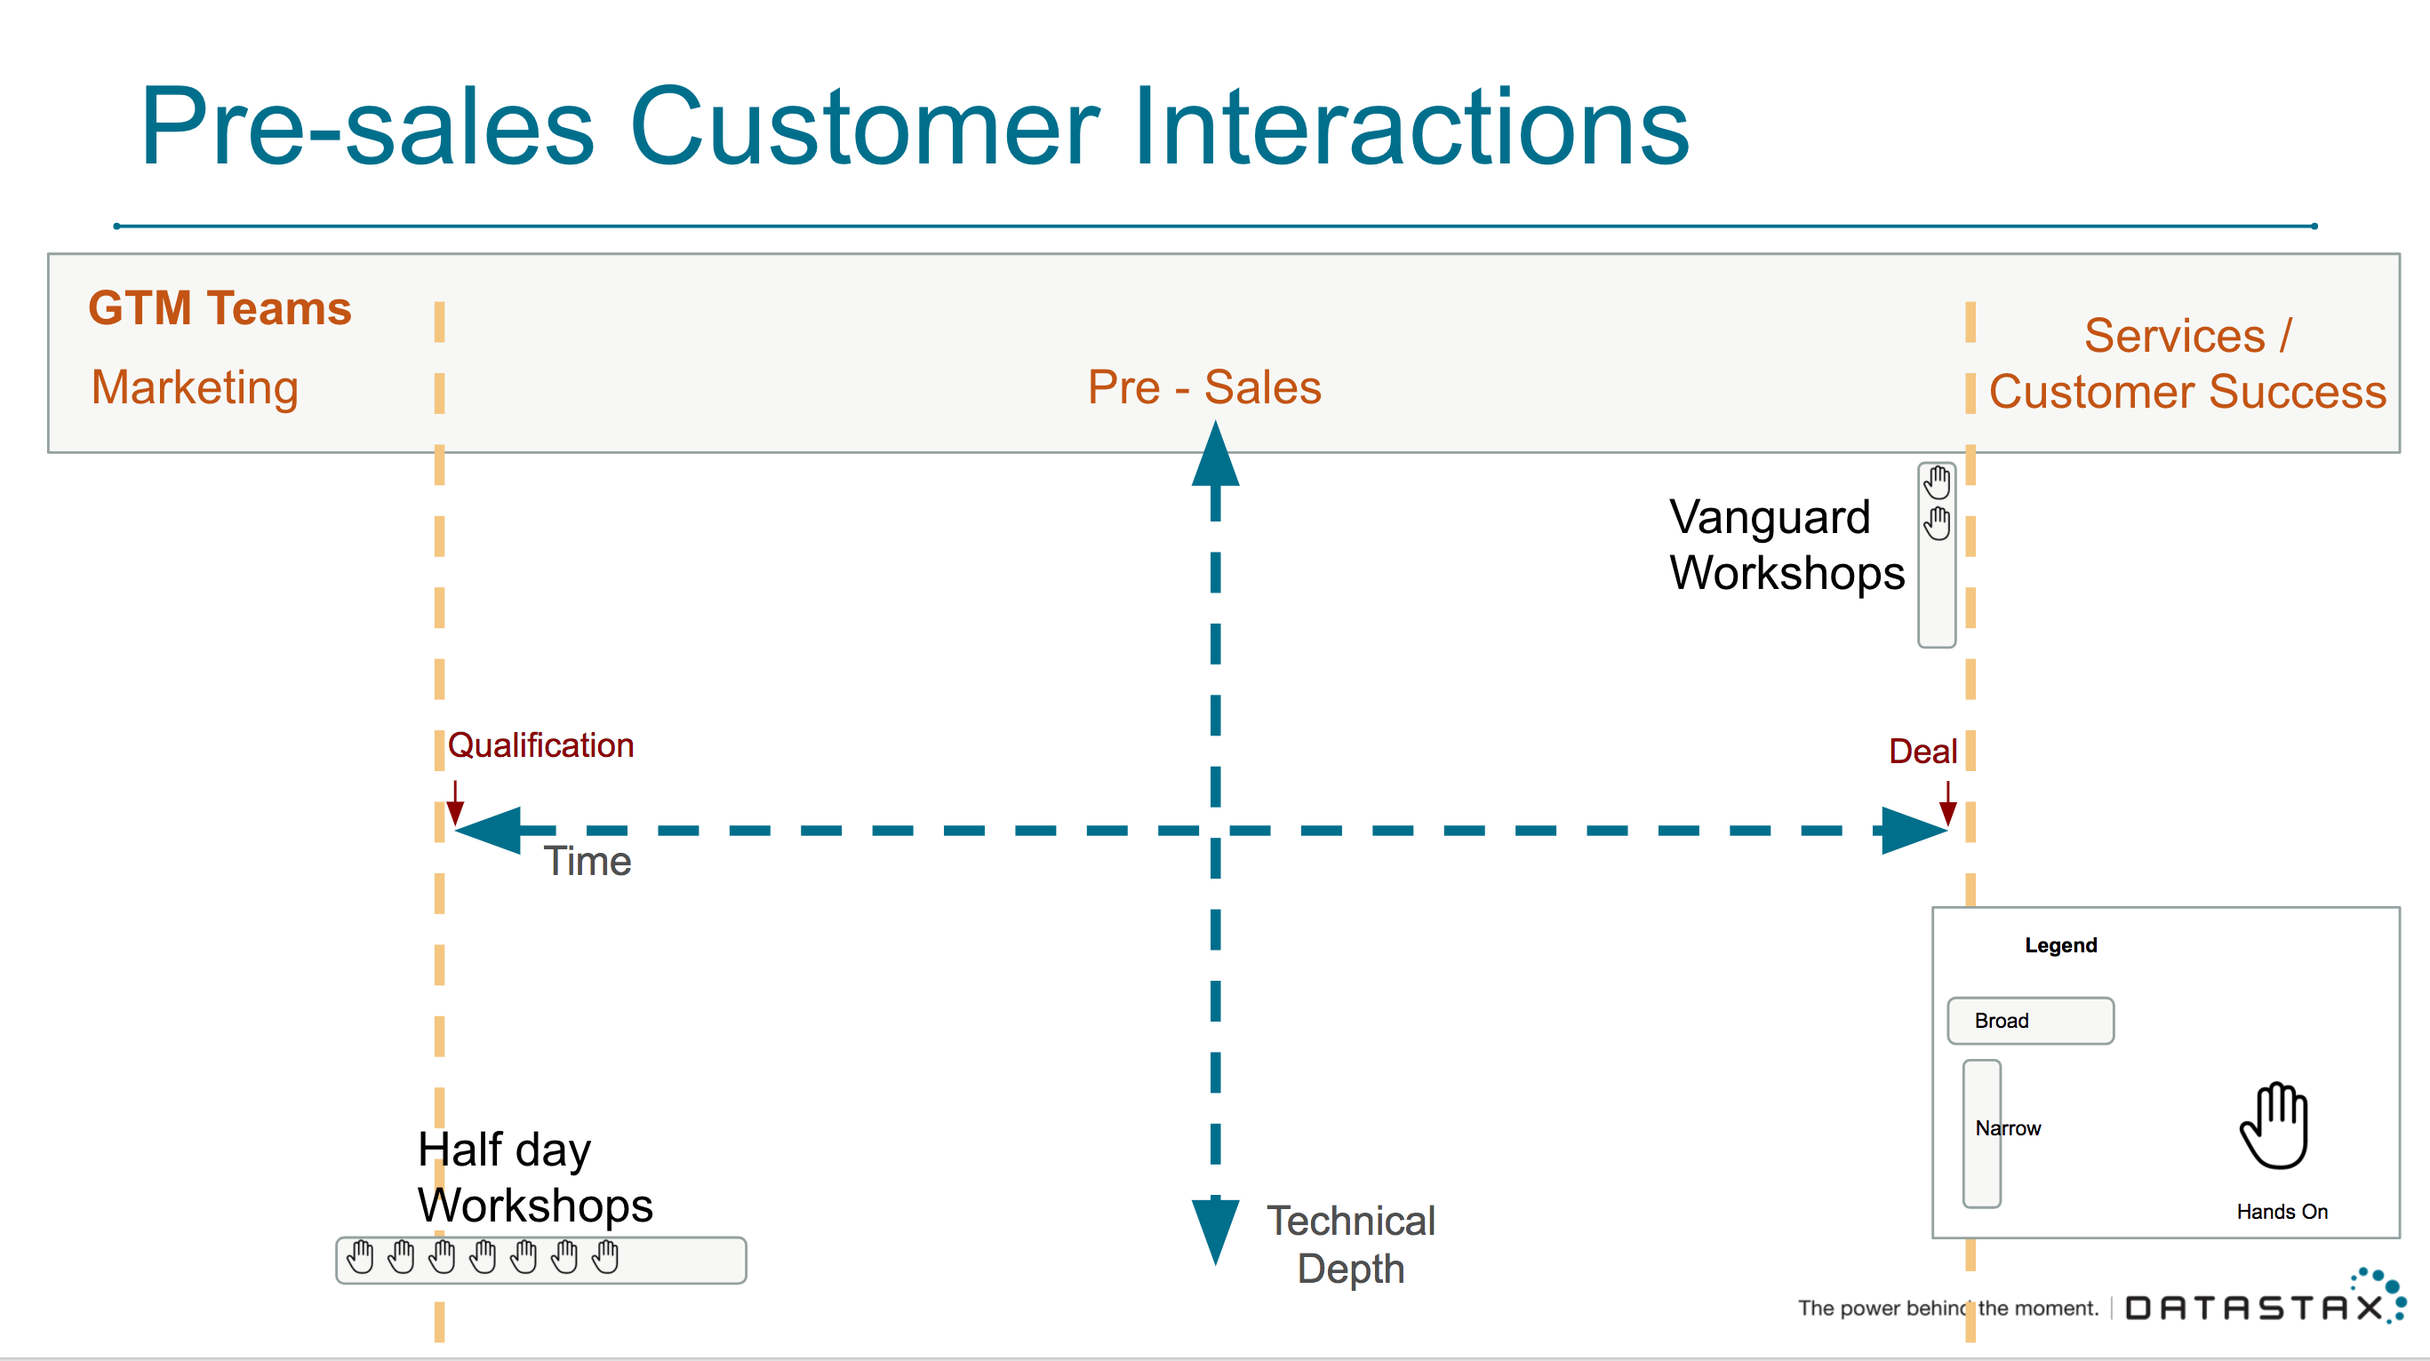
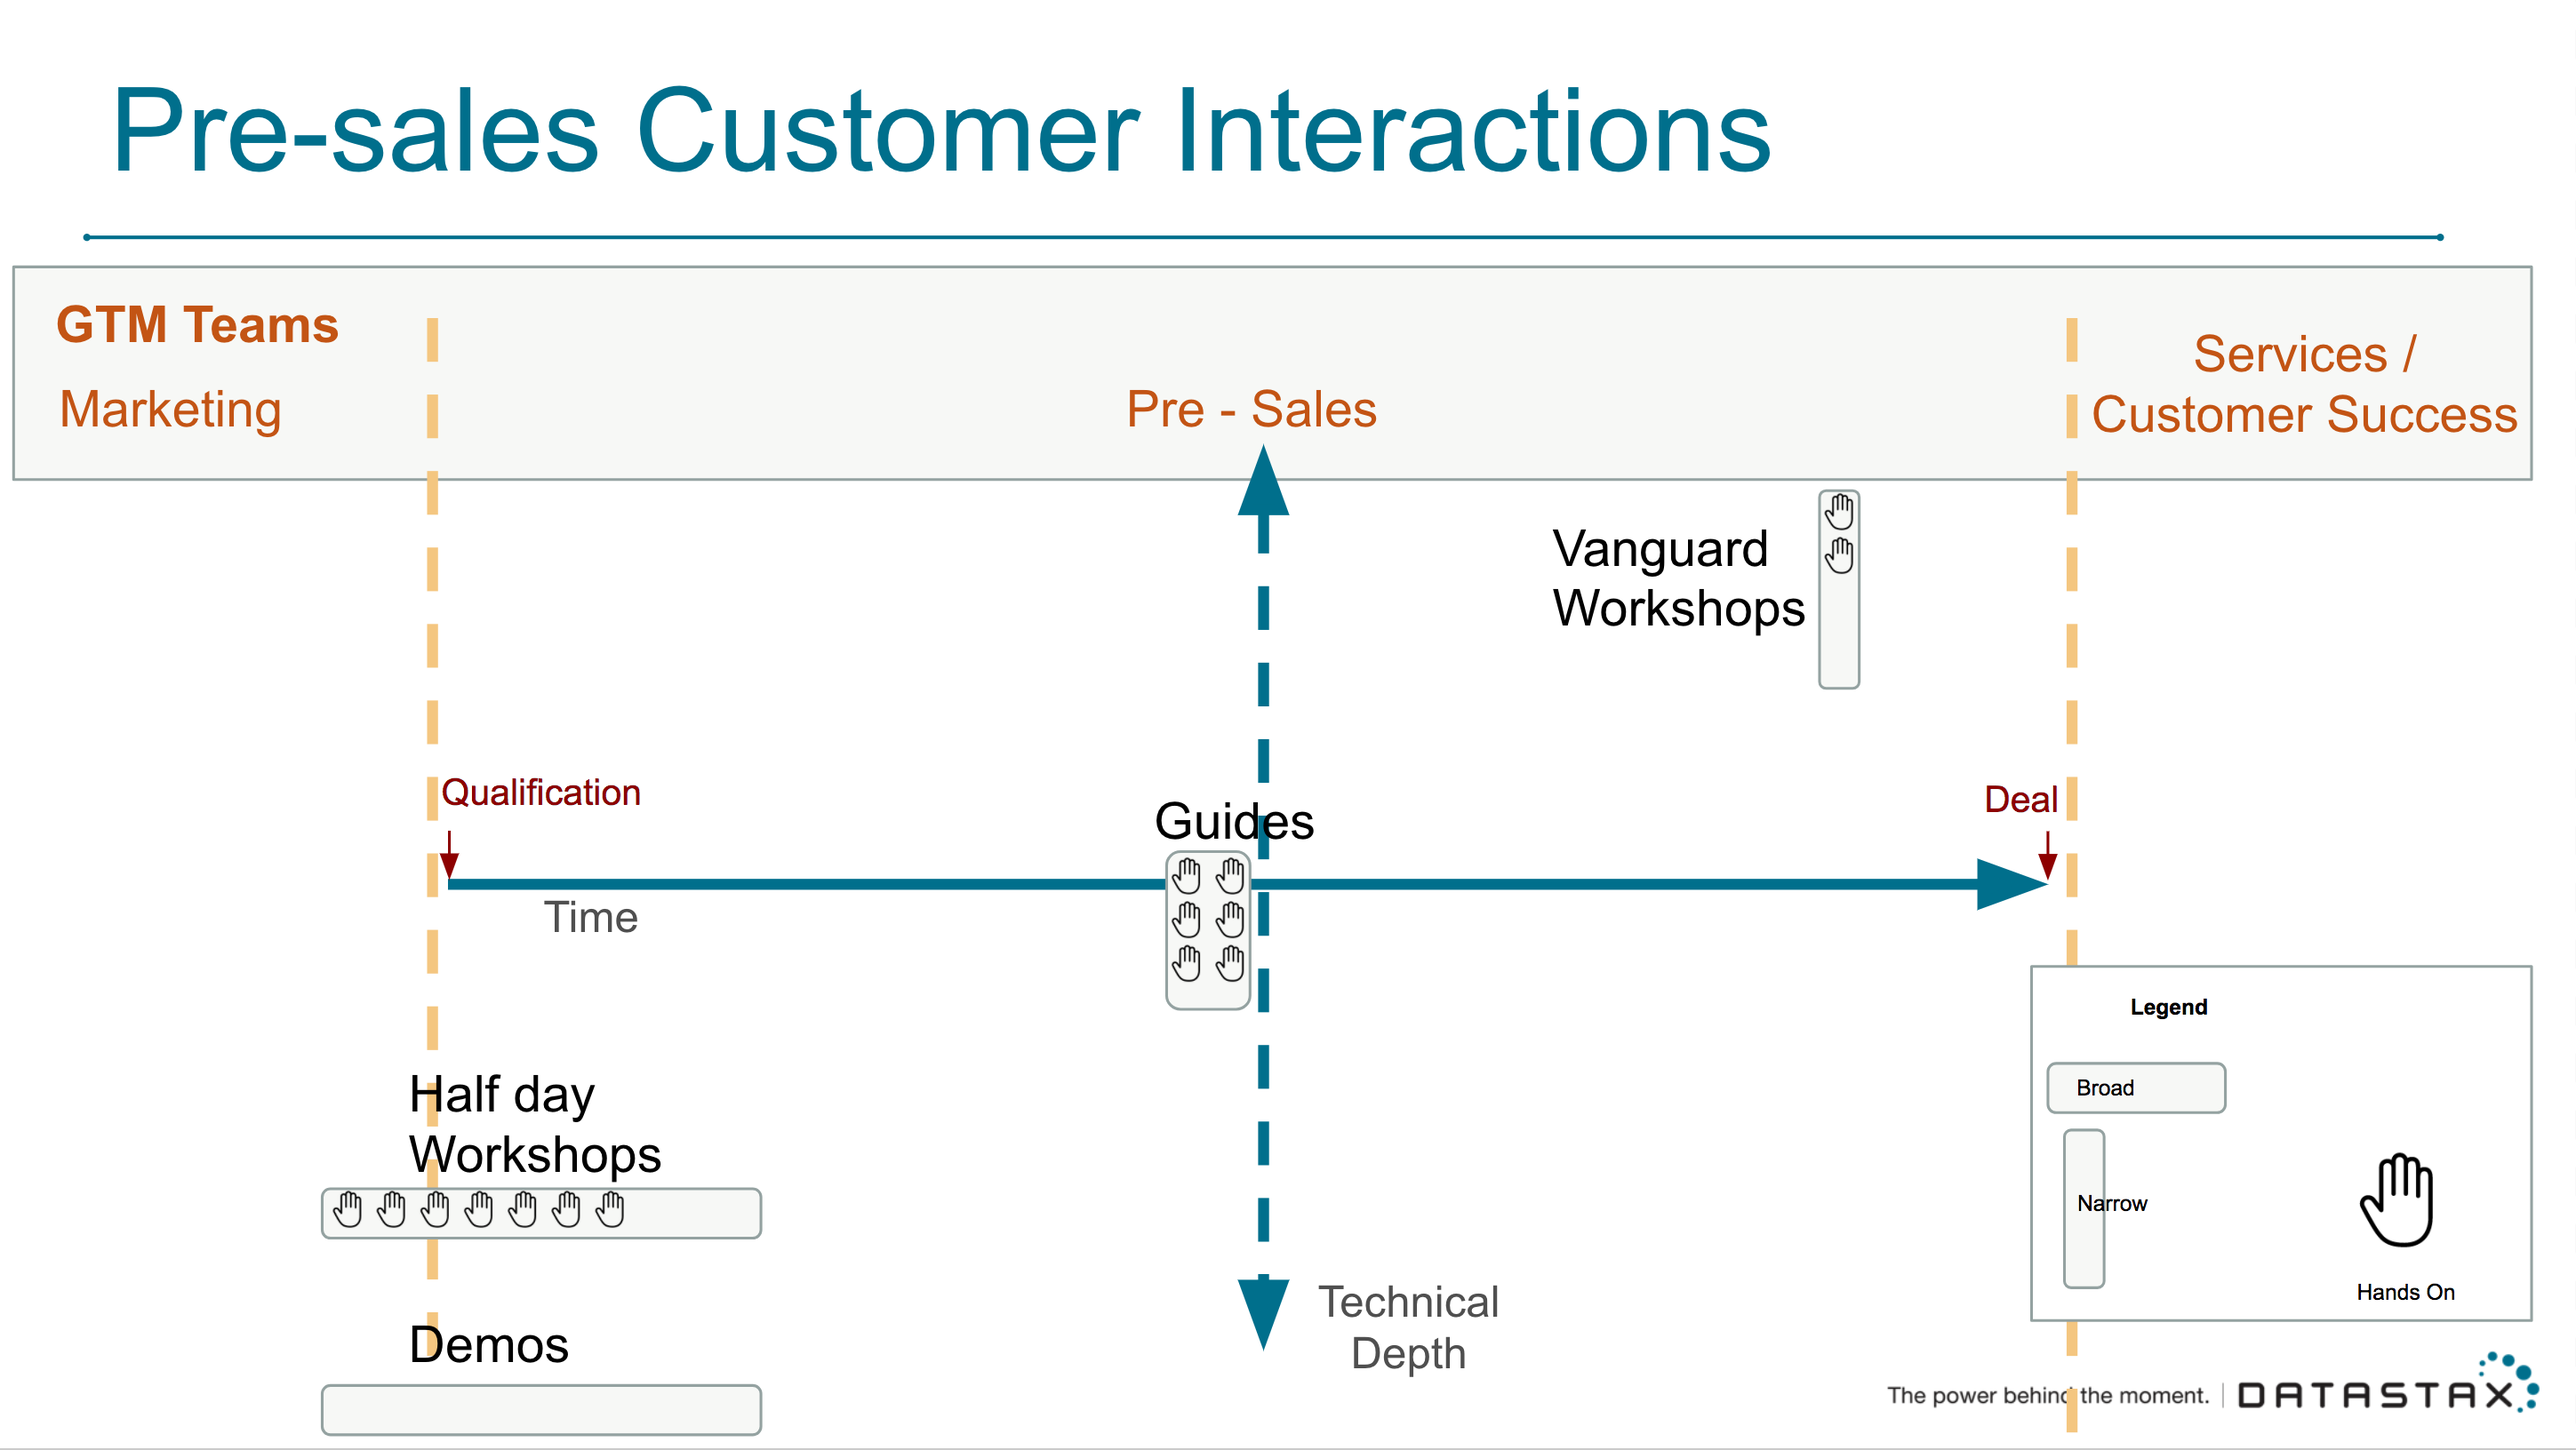
docs update

diff --git a/docs/content/interactions/interactions.md b/docs/content/interactions/interactions.md
@@ -9,19 +9,27 @@ menu:
     weight: 22
 ---
 
-### Pre-sales Interactions
+### AssetHub and the Pre-sales Lifecycle
 
-![presales interactions](/interactions/presalesInteractions.png)
+AssetHub is designed to help us overcome technical barriers that arise during our sales motion. By thinking about the types of interactions we have with customers, we are better suited to syntesize the types of Assets that we need to build and use.
+
+![presales interactions](/presales_interactions/presalesInteractions.png)
 
 Above is a graphic depicting the kinds of sales interactions that SEs have with prospects. We view sales interactions with the following lenses:
 
-- X Axis - time. Where in the sales cycle progression does the interaction take place?
-- Y Axis - technical depth
-- Feature Set Coverage - broad vs. narrow
-- Hands on or presentation?
+- **X Axis** - time. Where in the sales cycle progression does the interaction take place?
+- **Y Axis** - technical depth
+- **Feature Set Coverage** - broad vs. narrow
+- **Interactivity** - Hands-on or presentation?
 
-This interaction chart helps us synthesize the kinds of assets that we need to support SEs and helps us determine where we have enough coverage and where we are lacking in terms of capabilities. AssetHub should be able to support SEs across a wide range of customer activities including the following:
+Using this interactions chart we came up with the following Field Asset types (you will see these in the AssetHub application as a way to categorize assets on creation, curation, and search):
 
-- DSE Vanguard Workshop - Deep, Narrow interaction, sometimes hands on, where the goal is to prove out a specific functionality the customer wants to see working before closing a deal. This usually happens later in the sales cycle.
-- Marketing Half-Day Technical Workshops - Higher level, broader interactions, usually hands on, designed to demonstrate the capabilities of DSE to a technical audience in order to get them aquainted with our technology. These are grass roots activities that happen early in the sales cycle.
-- DSE Day - Art of the possible presentation / demo / design thinking session with the goal of demonstrating the power of DSE and facilitate brainstorming of customer use cases.
+- **Guide** - Medium depth, narrow scope, hands on, medium to late in the cycle. An introduction on how to use a particular feature of DSE. The focus is on accelerating a customers skills development phase with a specific DSE functionality. The guide should go just deep enough to give the customer the confidence needed to buy. This does not replace enablement / training.
+- **Demo** - High level, broad scope, usually not hands on, early in the cycle. An "art of the possible" presentation / demonstration / design thinking session with the goal of demonstrating the power of DSE and facilitate brainstorming of customer use cases. These assets must be polished and include step by step scripts for presenting the demo.
+- **DSE Vanguard Workshop** - Deep, narrow scope, sometimes hands on, late in the cycle. A deep technical workshop where the goal is to prove out a specific functionality the customer wants to see working before closing a deal. This usually happens later in the sales cycle.
+- **Half-Day Workshops** - Higher level, broader scope, usually hands on, early in the cycle. A technical workshop designed to demonstrate the capabilities of DSE to a technical audience in order to get them aquainted with our technology. These are grass roots activities that are often planned in coordination with Marketing. These assets come with interactive notebooks for the students and presentation material for the instructors.
+
+
+{{< note title="Note!" >}}
+Most deals will only require one of these interactions and some may not require any at all. The goal is to use AssetHub to accelerate your sale. Adding unnecessary interactions can sometimes slow you down!
+{{< /note >}}
